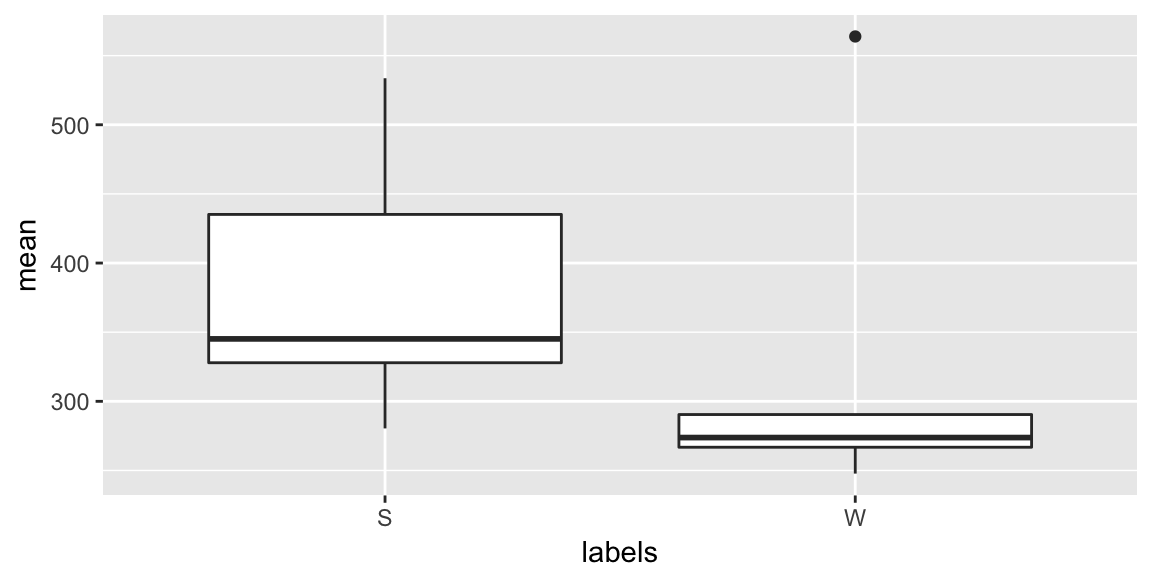
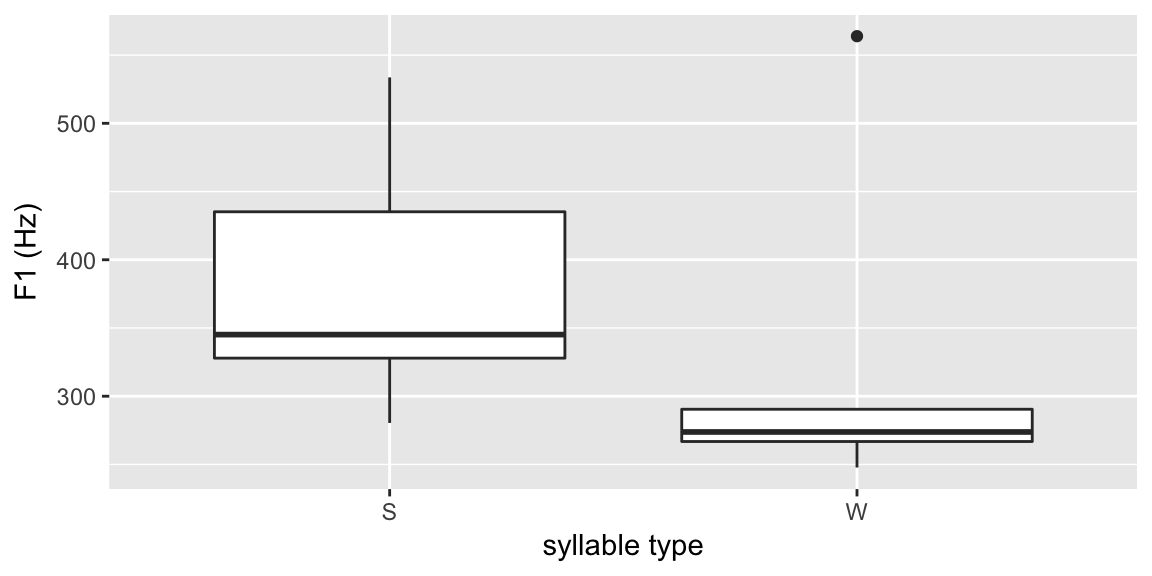
lesson2 prep

Changed region(s): [[0.0, 0.0312, 1.0, 0.9062], [0.4688, 0.9375, 0.625, 1.0], [0.3125, 0.0312, 0.3438, 0.0938]]

diff --git a/_book/toolchain-speechrecorder-maus-emu-sdms.html b/_book/toolchain-speechrecorder-maus-emu-sdms.html
@@ -24,7 +24,7 @@
 
 
 
-<meta name="date" content="2017-10-16">
+<meta name="date" content="2017-10-23">
 
   <meta name="viewport" content="width=device-width, initial-scale=1">
   <meta name="apple-mobile-web-app-capable" content="yes">
@@ -32,7 +32,7 @@
   
   
 <link rel="prev" href="the-query-system.html">
-<link rel="next" href="references.html">
+<link rel="next" href="placeholder.html">
 <script src="libs/jquery-2.2.3/jquery.min.js"></script>
 <link href="libs/gitbook-2.6.7/css/style.css" rel="stylesheet" />
 <link href="libs/gitbook-2.6.7/css/plugin-bookdown.css" rel="stylesheet" />
@@ -102,40 +102,41 @@ code > span.in { color: #60a0b0; font-weight: bold; font-style: italic; } /* Inf
 <li><a href="./">The EMU-SDMS Manual</a></li>
 
 <li class="divider"></li>
-<li class="chapter" data-level="1" data-path="installing-the-emu-sdms.html"><a href="installing-the-emu-sdms.html"><i class="fa fa-check"></i><b>1</b> Installing the EMU-SDMS</a><ul>
-<li class="chapter" data-level="1.1" data-path="installing-the-emu-sdms.html"><a href="installing-the-emu-sdms.html#installing-additional-r-packages-that-are-used-throughout-this-document"><i class="fa fa-check"></i><b>1.1</b> Installing additional R-packages that are used throughout this document</a></li>
-<li class="chapter" data-level="1.2" data-path="installing-the-emu-sdms.html"><a href="installing-the-emu-sdms.html#version-disclaimer"><i class="fa fa-check"></i><b>1.2</b> Version disclaimer</a></li>
-<li class="chapter" data-level="1.3" data-path="installing-the-emu-sdms.html"><a href="installing-the-emu-sdms.html#for-developers-and-people-interested-in-the-source-code"><i class="fa fa-check"></i><b>1.3</b> For developers and people interested in the source code</a></li>
+<li class="chapter" data-level="1" data-path="index.html"><a href="index.html"><i class="fa fa-check"></i><b>1</b> automatically create a bib database for R packages</a></li>
+<li class="chapter" data-level="2" data-path="installing-the-emu-sdms.html"><a href="installing-the-emu-sdms.html"><i class="fa fa-check"></i><b>2</b> Installing the EMU-SDMS</a><ul>
+<li class="chapter" data-level="2.1" data-path="installing-the-emu-sdms.html"><a href="installing-the-emu-sdms.html#installing-additional-r-packages-that-are-used-throughout-this-document"><i class="fa fa-check"></i><b>2.1</b> Installing additional R-packages that are used throughout this document</a></li>
+<li class="chapter" data-level="2.2" data-path="installing-the-emu-sdms.html"><a href="installing-the-emu-sdms.html#version-disclaimer"><i class="fa fa-check"></i><b>2.2</b> Version disclaimer</a></li>
+<li class="chapter" data-level="2.3" data-path="installing-the-emu-sdms.html"><a href="installing-the-emu-sdms.html#for-developers-and-people-interested-in-the-source-code"><i class="fa fa-check"></i><b>2.3</b> For developers and people interested in the source code</a></li>
 </ul></li>
-<li class="chapter" data-level="2" data-path="chap-overview.html"><a href="chap-overview.html"><i class="fa fa-check"></i><b>2</b> An overview of the EMU-SDMS</a><ul>
-<li class="chapter" data-level="2.1" data-path="chap-overview.html"><a href="chap-overview.html#the-evolution-of-the-emu-sdms"><i class="fa fa-check"></i><b>2.1</b> The evolution of the EMU-SDMS</a></li>
-<li class="chapter" data-level="2.2" data-path="chap-overview.html"><a href="chap-overview.html#emu-sdms-system-architecture-and-default-workflow"><i class="fa fa-check"></i><b>2.2</b> EMU-SDMS: System architecture and default workflow</a></li>
-<li class="chapter" data-level="2.3" data-path="chap-overview.html"><a href="chap-overview.html#emu-sdms-is-it-something-for-you"><i class="fa fa-check"></i><b>2.3</b> EMU-SDMS: Is it something for you?</a></li>
+<li class="chapter" data-level="3" data-path="chap-overview.html"><a href="chap-overview.html"><i class="fa fa-check"></i><b>3</b> An overview of the EMU-SDMS [^1]</a><ul>
+<li class="chapter" data-level="3.1" data-path="chap-overview.html"><a href="chap-overview.html#the-evolution-of-the-emu-sdms"><i class="fa fa-check"></i><b>3.1</b> The evolution of the EMU-SDMS</a></li>
+<li class="chapter" data-level="3.2" data-path="chap-overview.html"><a href="chap-overview.html#emu-sdms-system-architecture-and-default-workflow"><i class="fa fa-check"></i><b>3.2</b> EMU-SDMS: System architecture and default workflow</a></li>
+<li class="chapter" data-level="3.3" data-path="chap-overview.html"><a href="chap-overview.html#emu-sdms-is-it-something-for-you"><i class="fa fa-check"></i><b>3.3</b> EMU-SDMS: Is it something for you?</a></li>
 </ul></li>
-<li class="chapter" data-level="3" data-path="chap-tutorial.html"><a href="chap-tutorial.html"><i class="fa fa-check"></i><b>3</b> A tutorial on how to use the EMU-SDMS</a><ul>
-<li class="chapter" data-level="3.1" data-path="chap-tutorial.html"><a href="chap-tutorial.html#converting-the-textgrid-collection"><i class="fa fa-check"></i><b>3.1</b> Converting the TextGrid collection</a></li>
-<li class="chapter" data-level="3.2" data-path="chap-tutorial.html"><a href="chap-tutorial.html#loading-and-inspecting-the-database"><i class="fa fa-check"></i><b>3.2</b> Loading and inspecting the database</a><ul>
-<li class="chapter" data-level="3.2.1" data-path="chap-tutorial.html"><a href="chap-tutorial.html#overview"><i class="fa fa-check"></i><b>3.2.1</b> Overview</a></li>
-<li class="chapter" data-level="3.2.2" data-path="chap-tutorial.html"><a href="chap-tutorial.html#database-annotation-and-visual-inspection"><i class="fa fa-check"></i><b>3.2.2</b> Database annotation and visual inspection</a></li>
+<li class="chapter" data-level="4" data-path="chap-tutorial.html"><a href="chap-tutorial.html"><i class="fa fa-check"></i><b>4</b> A tutorial on how to use the EMU-SDMS [^2]</a><ul>
+<li class="chapter" data-level="4.1" data-path="chap-tutorial.html"><a href="chap-tutorial.html#converting-the-textgrid-collection"><i class="fa fa-check"></i><b>4.1</b> Converting the TextGrid collection</a></li>
+<li class="chapter" data-level="4.2" data-path="chap-tutorial.html"><a href="chap-tutorial.html#loading-and-inspecting-the-database"><i class="fa fa-check"></i><b>4.2</b> Loading and inspecting the database</a><ul>
+<li class="chapter" data-level="4.2.1" data-path="chap-tutorial.html"><a href="chap-tutorial.html#overview"><i class="fa fa-check"></i><b>4.2.1</b> Overview</a></li>
+<li class="chapter" data-level="4.2.2" data-path="chap-tutorial.html"><a href="chap-tutorial.html#database-annotation-and-visual-inspection"><i class="fa fa-check"></i><b>4.2.2</b> Database annotation and visual inspection</a></li>
 </ul></li>
-<li class="chapter" data-level="3.3" data-path="chap-tutorial.html"><a href="chap-tutorial.html#querying-and-autobuilding-the-annotation-structure"><i class="fa fa-check"></i><b>3.3</b> Querying and autobuilding the annotation structure</a><ul>
-<li class="chapter" data-level="3.3.1" data-path="chap-tutorial.html"><a href="chap-tutorial.html#autobuilding"><i class="fa fa-check"></i><b>3.3.1</b> Autobuilding</a></li>
-<li class="chapter" data-level="3.3.2" data-path="chap-tutorial.html"><a href="chap-tutorial.html#querying-the-hierarchical-annotations"><i class="fa fa-check"></i><b>3.3.2</b> Querying the hierarchical annotations</a></li>
+<li class="chapter" data-level="4.3" data-path="chap-tutorial.html"><a href="chap-tutorial.html#querying-and-autobuilding-the-annotation-structure"><i class="fa fa-check"></i><b>4.3</b> Querying and autobuilding the annotation structure</a><ul>
+<li class="chapter" data-level="4.3.1" data-path="chap-tutorial.html"><a href="chap-tutorial.html#autobuilding"><i class="fa fa-check"></i><b>4.3.1</b> Autobuilding</a></li>
+<li class="chapter" data-level="4.3.2" data-path="chap-tutorial.html"><a href="chap-tutorial.html#querying-the-hierarchical-annotations"><i class="fa fa-check"></i><b>4.3.2</b> Querying the hierarchical annotations</a></li>
 </ul></li>
-<li class="chapter" data-level="3.4" data-path="chap-tutorial.html"><a href="chap-tutorial.html#section:tutorial_sigExtrAndExpl"><i class="fa fa-check"></i><b>3.4</b> Signal extraction and exploration</a></li>
-<li class="chapter" data-level="3.5" data-path="chap-tutorial.html"><a href="chap-tutorial.html#vowel-height-as-a-function-of-syllable-types-strong-vs.weak-evaluation-and-statistical-analysis"><i class="fa fa-check"></i><b>3.5</b> Vowel height as a function of syllable types (strong vs. weak): evaluation and statistical analysis</a></li>
-<li class="chapter" data-level="3.6" data-path="chap-tutorial.html"><a href="chap-tutorial.html#conclusion"><i class="fa fa-check"></i><b>3.6</b> Conclusion</a></li>
+<li class="chapter" data-level="4.4" data-path="chap-tutorial.html"><a href="chap-tutorial.html#section:tutorial_sigExtrAndExpl"><i class="fa fa-check"></i><b>4.4</b> Signal extraction and exploration</a></li>
+<li class="chapter" data-level="4.5" data-path="chap-tutorial.html"><a href="chap-tutorial.html#vowel-height-as-a-function-of-syllable-types-strong-vs.weak-evaluation-and-statistical-analysis"><i class="fa fa-check"></i><b>4.5</b> Vowel height as a function of syllable types (strong vs. weak): evaluation and statistical analysis</a></li>
+<li class="chapter" data-level="4.6" data-path="chap-tutorial.html"><a href="chap-tutorial.html#conclusion"><i class="fa fa-check"></i><b>4.6</b> Conclusion</a></li>
 </ul></li>
-<li class="chapter" data-level="4" data-path="the-query-system.html"><a href="the-query-system.html"><i class="fa fa-check"></i><b>4</b> The query system</a></li>
-<li class="chapter" data-level="5" data-path="toolchain-speechrecorder-maus-emu-sdms.html"><a href="toolchain-speechrecorder-maus-emu-sdms.html"><i class="fa fa-check"></i><b>5</b> Toolchain SpeechRecorder — MAUS — EMU-SDMS</a><ul>
-<li class="chapter" data-level="5.1" data-path="toolchain-speechrecorder-maus-emu-sdms.html"><a href="toolchain-speechrecorder-maus-emu-sdms.html#what-do-speechrecorder-and-maus-do"><i class="fa fa-check"></i><b>5.1</b> What do SpeechRecorder and MAUS do?</a></li>
-<li class="chapter" data-level="5.2" data-path="toolchain-speechrecorder-maus-emu-sdms.html"><a href="toolchain-speechrecorder-maus-emu-sdms.html#different-types-of-prompts"><i class="fa fa-check"></i><b>5.2</b> Different types of prompts</a></li>
-<li class="chapter" data-level="5.3" data-path="toolchain-speechrecorder-maus-emu-sdms.html"><a href="toolchain-speechrecorder-maus-emu-sdms.html#combining-the-tools"><i class="fa fa-check"></i><b>5.3</b> Combining the tools</a><ul>
-<li class="chapter" data-level="5.3.1" data-path="toolchain-speechrecorder-maus-emu-sdms.html"><a href="toolchain-speechrecorder-maus-emu-sdms.html#importing-recordings-and-transcriptions-into-emu"><i class="fa fa-check"></i><b>5.3.1</b> Importing recordings and transcriptions into Emu</a></li>
-<li class="chapter" data-level="5.3.2" data-path="toolchain-speechrecorder-maus-emu-sdms.html"><a href="toolchain-speechrecorder-maus-emu-sdms.html#feeding-the-data-into-maus"><i class="fa fa-check"></i><b>5.3.2</b> Feeding the data into MAUS</a></li>
+<li class="chapter" data-level="5" data-path="the-query-system.html"><a href="the-query-system.html"><i class="fa fa-check"></i><b>5</b> The query system</a></li>
+<li class="chapter" data-level="6" data-path="toolchain-speechrecorder-maus-emu-sdms.html"><a href="toolchain-speechrecorder-maus-emu-sdms.html"><i class="fa fa-check"></i><b>6</b> Toolchain SpeechRecorder — MAUS — EMU-SDMS</a><ul>
+<li class="chapter" data-level="6.1" data-path="toolchain-speechrecorder-maus-emu-sdms.html"><a href="toolchain-speechrecorder-maus-emu-sdms.html#what-do-speechrecorder-and-maus-do"><i class="fa fa-check"></i><b>6.1</b> What do SpeechRecorder and MAUS do?</a></li>
+<li class="chapter" data-level="6.2" data-path="toolchain-speechrecorder-maus-emu-sdms.html"><a href="toolchain-speechrecorder-maus-emu-sdms.html#different-types-of-prompts"><i class="fa fa-check"></i><b>6.2</b> Different types of prompts</a></li>
+<li class="chapter" data-level="6.3" data-path="toolchain-speechrecorder-maus-emu-sdms.html"><a href="toolchain-speechrecorder-maus-emu-sdms.html#combining-the-tools"><i class="fa fa-check"></i><b>6.3</b> Combining the tools</a><ul>
+<li class="chapter" data-level="6.3.1" data-path="toolchain-speechrecorder-maus-emu-sdms.html"><a href="toolchain-speechrecorder-maus-emu-sdms.html#importing-recordings-and-transcriptions-into-emu"><i class="fa fa-check"></i><b>6.3.1</b> Importing recordings and transcriptions into Emu</a></li>
+<li class="chapter" data-level="6.3.2" data-path="toolchain-speechrecorder-maus-emu-sdms.html"><a href="toolchain-speechrecorder-maus-emu-sdms.html#feeding-the-data-into-maus"><i class="fa fa-check"></i><b>6.3.2</b> Feeding the data into MAUS</a></li>
 </ul></li>
 </ul></li>
-<li class="chapter" data-level="" data-path="references.html"><a href="references.html"><i class="fa fa-check"></i>References</a></li>
+<li class="chapter" data-level="7" data-path="placeholder.html"><a href="placeholder.html"><i class="fa fa-check"></i><b>7</b> Placeholder</a></li>
 <li class="divider"></li>
 <li><a href="https://github.com/rstudio/bookdown" target="blank">Published with bookdown</a></li>
 
@@ -157,40 +158,40 @@ code > span.in { color: #60a0b0; font-weight: bold; font-style: italic; } /* Inf
 
             <section class="normal" id="section-">
 <div id="toolchain-speechrecorder-maus-emu-sdms" class="section level1">
-<h1><span class="header-section-number">Chapter 5</span> Toolchain SpeechRecorder — MAUS — EMU-SDMS</h1>
-<p>Most phonetic research projects involve this workflow:</p>
+<h1><span class="header-section-number">Chapter 6</span> Toolchain SpeechRecorder — MAUS — EMU-SDMS</h1>
+<p>Most phonetic research projects loosly adhere to the following workflow:</p>
 <ol style="list-style-type: decimal">
 <li>Record speech</li>
-<li>Annotate speech using automatic tools</li>
+<li>Annotate speech using fully automated tools (using ASR / forced alignment methods)</li>
 <li>Check and correct the generated annotations by hand</li>
 <li>Analyze speech (connecting the primary data with annotations and derived signals)</li>
 </ol>
 <p>The EMU Speech Database Management System is focused on steps 3 and 4 of this workflow. For the first two steps, it can very usefully be complemented by two other tools: <a href="http://www.speechrecorder.org/">SpeechRecorder</a> and MAUS (or, more broadly speaking — and more correctly, for that matter — the <a href="https://clarin.phonetik.uni-muenchen.de/BASWebServices">BAS Web Services</a>). This chapter introduces how the tools can be combined — in a systematic way, with as little fuss as possible.</p>
 <div id="what-do-speechrecorder-and-maus-do" class="section level2">
-<h2><span class="header-section-number">5.1</span> What do SpeechRecorder and MAUS do?</h2>
+<h2><span class="header-section-number">6.1</span> What do SpeechRecorder and MAUS do?</h2>
 <p>“SpeechRecorder is a platform independent audio recording software customized to the requirements of speech recordings” (<a href="http://www.speechrecorder.org/" class="uri">http://www.speechrecorder.org/</a>). To this end, SpeechRecorder lets you define prompts that participants will read (or otherwise react to) while you are recording them. At the end of a session, instead of one large recording of the whole session, you have a set of smaller audio recordings, each one representing a single prompt.</p>
-<p>MAUS (Munich AUtomatic Segmentation) processes audio recordings with corresponding orthographic transcriptions, and outputs (1) a corresponding phonetic transcription and (2) a segmentation of the signal into individual speech sounds. As such, MAUS is a part of the <a href="https://clarin.phonetik.uni-muenchen.de/BASWebServices">BAS Web Services</a>.<a href="#fn4" class="footnoteRef" id="fnref4"><sup>4</sup></a></p>
+<p>MAUS (Munich AUtomatic Segmentation) processes audio recordings with corresponding orthographic transcriptions, and outputs (1) a corresponding phonetic transcription and (2) a segmentation of the signal into individual speech sounds. As such, MAUS is a part of the <a href="https://clarin.phonetik.uni-muenchen.de/BASWebServices">BAS Web Services</a>.<a href="#fn1" class="footnoteRef" id="fnref1"><sup>1</sup></a></p>
 </div>
 <div id="different-types-of-prompts" class="section level2">
-<h2><span class="header-section-number">5.2</span> Different types of prompts</h2>
+<h2><span class="header-section-number">6.2</span> Different types of prompts</h2>
 <p>Prompts are very often sentences that participants read out aloud (producing <em>read speech</em>). However, this need not be the case. Prompts may as well be, for example, images that participants have to name or describe, or written questions that participants answer.</p>
 <p>In terms of processing, <em>read speech</em> has the advantage that the researcher already has orthographic transcriptions of all recordings, because the prompts <em>are</em> the transcriptions (this neglects hesitations, misread utterances, etc.).</p>
-<p>For all cases besides read speech, transcriptions have to be prepared. For read speech, when hesitations etc. need to be considered, the existing transcriptions need to be corrected (per token). For the time being, this is out of the scope of this book.<a href="#fn5" class="footnoteRef" id="fnref5"><sup>5</sup></a></p>
+<p>For all cases besides read speech, transcriptions have to be prepared. For read speech, when hesitations etc. need to be considered, the existing transcriptions need to be corrected (per token). For the time being, this is out of the scope of this book.<a href="#fn2" class="footnoteRef" id="fnref2"><sup>2</sup></a></p>
 </div>
 <div id="combining-the-tools" class="section level2">
-<h2><span class="header-section-number">5.3</span> Combining the tools</h2>
+<h2><span class="header-section-number">6.3</span> Combining the tools</h2>
 <p>The order of the processing steps is unchangeable: The files have to be recorded first, then annotated and then analyzed.</p>
 <p>However, there are different ways of passing data around between the tools. For example SpeechRecorder might <em>export</em> files into emuDB format or the EMU-SDMS might <em>import</em> files stored in SpeechRecorder’s format. After all, they are separate tools and can be used individually (although the combination makes great sense).</p>
 <p>Moreover, sometimes a database grows, and some new files are recorded while others have already been annotated or analyzed (which challenges the “unchangeable order of processing steps”).</p>
 <p>We can see now that we have to convert our data between different formats. We want to benefit from all tools but keep the conversion work down to a minimum. In this section, we explain the (currently) best way to do this. We will import SpeechRecorder’s recordings and prompts into the EMU-SDMS and then use emuR to send the data to MAUS and other BAS Web Services.</p>
 <div id="importing-recordings-and-transcriptions-into-emu" class="section level3">
-<h3><span class="header-section-number">5.3.1</span> Importing recordings and transcriptions into Emu</h3>
+<h3><span class="header-section-number">6.3.1</span> Importing recordings and transcriptions into Emu</h3>
 <div id="using-the-import_speechrecorder-function" class="section level4">
-<h4><span class="header-section-number">5.3.1.1</span> Using the import_speechRecorder() function</h4>
+<h4><span class="header-section-number">6.3.1.1</span> Using the import_speechRecorder() function</h4>
 <p>The <code>import_speechRecorder()</code> function is in the making, but unfortunately not finished yet. We therefore have to resort to the second-best way of importing SpeechRecorder’s results into Emu:</p>
 </div>
 <div id="using-intermediary-text-files" class="section level4">
-<h4><span class="header-section-number">5.3.1.2</span> Using intermediary text files</h4>
+<h4><span class="header-section-number">6.3.1.2</span> Using intermediary text files</h4>
 <p>SpeechRecorder, per default, saves one .wav file for each prompt. With additional settings, it will save a .txt file containing the corresponding prompt along with each .wav file. This is great because it is exactly what MAUS needs as its input.</p>
 <p>The following options must be configured <em>before recordings are made</em>. Note that parts of SpeechRecorder’s user interface are in German:</p>
 <ul>
@@ -228,7 +229,7 @@ dbHandle =<span class="st"> </span><span class="kw">load_emuDB</span>(<span clas
 </div>
 </div>
 <div id="feeding-the-data-into-maus" class="section level3">
-<h3><span class="header-section-number">5.3.2</span> Feeding the data into MAUS</h3>
+<h3><span class="header-section-number">6.3.2</span> Feeding the data into MAUS</h3>
 <p>The .wav and .txt files could have been uploaded on the <a href="https://clarin.phonetik.uni-muenchen.de/BASWebServices/#!/services/Pipeline">BAS web site</a>, but we will do it using emuR. This is generally less error-prone and requires less manual work. Moreover, since it is a scripted way of doing things, we can reproduce it reliably.</p>
 <p>To process the data, we make use of several of emuR’s functions called <code>runBASwebservice_...</code>. They will upload the data to WebMAUS and accompanying services and save the results directly inside your existing emuDB (this of course takes some time, depending on the size of your database and the speed of your internet connection).</p>
 <div class="sourceCode"><pre class="sourceCode r"><code class="sourceCode r"><span class="kw">runBASwebservice_g2pForTokenization</span>(<span class="dt">handle =</span> dbHandle,
@@ -255,9 +256,9 @@ dbHandle =<span class="st"> </span><span class="kw">load_emuDB</span>(<span clas
 </div>
 <div class="footnotes">
 <hr />
-<ol start="4">
-<li id="fn4"><p>Strictly speaking, MAUS is used in conjunction with G2P and possibly Chunker to achieve this result. The whole package is often referred to as MAUS, however.<a href="toolchain-speechrecorder-maus-emu-sdms.html#fnref4">↩</a></p></li>
-<li id="fn5"><p>It will be covered, at a later time, in this or a separate chapter.<a href="toolchain-speechrecorder-maus-emu-sdms.html#fnref5">↩</a></p></li>
+<ol start="1">
+<li id="fn1"><p>Strictly speaking, MAUS is used in conjunction with G2P and possibly Chunker to achieve this result. The whole package is often referred to as MAUS, however.<a href="toolchain-speechrecorder-maus-emu-sdms.html#fnref1">↩</a></p></li>
+<li id="fn2"><p>It will be covered, at a later time, in this or a separate chapter.<a href="toolchain-speechrecorder-maus-emu-sdms.html#fnref2">↩</a></p></li>
 </ol>
 </div>
             </section>
@@ -266,7 +267,7 @@ dbHandle =<span class="st"> </span><span class="kw">load_emuDB</span>(<span clas
         </div>
       </div>
 <a href="the-query-system.html" class="navigation navigation-prev " aria-label="Previous page"><i class="fa fa-angle-left"></i></a>
-<a href="references.html" class="navigation navigation-next " aria-label="Next page"><i class="fa fa-angle-right"></i></a>
+<a href="placeholder.html" class="navigation navigation-next " aria-label="Next page"><i class="fa fa-angle-right"></i></a>
     </div>
   </div>
 <script src="libs/gitbook-2.6.7/js/app.min.js"></script>

diff --git a/_book/chap-tutorial.html b/_book/chap-tutorial.html
@@ -24,7 +24,7 @@
 
 
 
-<meta name="date" content="2017-10-16">
+<meta name="date" content="2017-10-23">
 
   <meta name="viewport" content="width=device-width, initial-scale=1">
   <meta name="apple-mobile-web-app-capable" content="yes">
@@ -128,12 +128,12 @@ code > span.in { color: #60a0b0; font-weight: bold; font-style: italic; } /* Inf
 <li class="chapter" data-level="4.6" data-path="chap-tutorial.html"><a href="chap-tutorial.html#conclusion"><i class="fa fa-check"></i><b>4.6</b> Conclusion</a></li>
 </ul></li>
 <li class="chapter" data-level="5" data-path="the-query-system.html"><a href="the-query-system.html"><i class="fa fa-check"></i><b>5</b> The query system</a></li>
-<li class="chapter" data-level="6" data-path="toolchain-speechrecorder-maus-emu-sdms.html"><a href="toolchain-speechrecorder-maus-emu-sdms.html"><i class="fa fa-check"></i><b>6</b> Toolchain SpeechRecorder — MAUS — EMU-SDMS</a><ul>
-<li class="chapter" data-level="6.1" data-path="toolchain-speechrecorder-maus-emu-sdms.html"><a href="toolchain-speechrecorder-maus-emu-sdms.html#what-do-speechrecorder-and-maus-do"><i class="fa fa-check"></i><b>6.1</b> What do SpeechRecorder and MAUS do?</a></li>
-<li class="chapter" data-level="6.2" data-path="toolchain-speechrecorder-maus-emu-sdms.html"><a href="toolchain-speechrecorder-maus-emu-sdms.html#different-types-of-prompts"><i class="fa fa-check"></i><b>6.2</b> Different types of prompts</a></li>
-<li class="chapter" data-level="6.3" data-path="toolchain-speechrecorder-maus-emu-sdms.html"><a href="toolchain-speechrecorder-maus-emu-sdms.html#combining-the-tools"><i class="fa fa-check"></i><b>6.3</b> Combining the tools</a><ul>
-<li class="chapter" data-level="6.3.1" data-path="toolchain-speechrecorder-maus-emu-sdms.html"><a href="toolchain-speechrecorder-maus-emu-sdms.html#importing-recordings-and-transcriptions-into-emu"><i class="fa fa-check"></i><b>6.3.1</b> Importing recordings and transcriptions into Emu</a></li>
-<li class="chapter" data-level="6.3.2" data-path="toolchain-speechrecorder-maus-emu-sdms.html"><a href="toolchain-speechrecorder-maus-emu-sdms.html#feeding-the-data-into-maus"><i class="fa fa-check"></i><b>6.3.2</b> Feeding the data into MAUS</a></li>
+<li class="chapter" data-level="6" data-path="the-speechrecorder-maus-emu-sdms-toolchain.html"><a href="the-speechrecorder-maus-emu-sdms-toolchain.html"><i class="fa fa-check"></i><b>6</b> The SpeechRecorder — MAUS — EMU-SDMS Toolchain</a><ul>
+<li class="chapter" data-level="6.1" data-path="the-speechrecorder-maus-emu-sdms-toolchain.html"><a href="the-speechrecorder-maus-emu-sdms-toolchain.html#what-do-speechrecorder-and-maus-do"><i class="fa fa-check"></i><b>6.1</b> What do SpeechRecorder and MAUS do?</a></li>
+<li class="chapter" data-level="6.2" data-path="the-speechrecorder-maus-emu-sdms-toolchain.html"><a href="the-speechrecorder-maus-emu-sdms-toolchain.html#different-types-of-prompts"><i class="fa fa-check"></i><b>6.2</b> Different types of prompts</a></li>
+<li class="chapter" data-level="6.3" data-path="the-speechrecorder-maus-emu-sdms-toolchain.html"><a href="the-speechrecorder-maus-emu-sdms-toolchain.html#combining-the-tools"><i class="fa fa-check"></i><b>6.3</b> Combining the tools</a><ul>
+<li class="chapter" data-level="6.3.1" data-path="the-speechrecorder-maus-emu-sdms-toolchain.html"><a href="the-speechrecorder-maus-emu-sdms-toolchain.html#importing-recordings-and-transcriptions-into-emu"><i class="fa fa-check"></i><b>6.3.1</b> Importing recordings and transcriptions into Emu</a></li>
+<li class="chapter" data-level="6.3.2" data-path="the-speechrecorder-maus-emu-sdms-toolchain.html"><a href="the-speechrecorder-maus-emu-sdms-toolchain.html#feeding-the-data-into-maus"><i class="fa fa-check"></i><b>6.3.2</b> Feeding the data into MAUS</a></li>
 </ul></li>
 </ul></li>
 <li class="chapter" data-level="7" data-path="placeholder.html"><a href="placeholder.html"><i class="fa fa-check"></i><b>7</b> Placeholder</a></li>
@@ -229,8 +229,8 @@ dbHandle =<span class="st"> </span><span class="kw">load_emuDB</span>(path2direc
 <div class="sourceCode"><pre class="sourceCode r"><code class="sourceCode r"><span class="co"># show summary</span>
 <span class="kw">summary</span>(dbHandle)</code></pre></div>
 <pre><code>## Name:     myFirst 
-## UUID:     e301ddd2-e343-40b2-b700-f66d66c05cda 
-## Directory:    /private/var/folders/ll/pw5k9y6x64q5xqys350rz2ph0000gn/T/RtmpovGxSh/myFirst_emuDB 
+## UUID:     01f8a87a-fe82-412f-94b8-d0d0adb9c875 
+## Directory:    /private/var/folders/ll/pw5k9y6x64q5xqys350rz2ph0000gn/T/RtmpK18Zx5/myFirst_emuDB 
 ## Session count: 1 
 ## Bundle count: 7 
 ## Annotation item count:  664 
@@ -465,19 +465,19 @@ td_vowels$sl_rowIdx</code></pre></div>
 ## [162] 10 10 10 10 10 10 10 10 10 10 10 10 10 10 10 10 10 10 11 11 11 11 11
 ## [185] 11 11 11 11 11 11 11 11 11 11 11 11 11 11 11 11 11 11 12 12 12 12 12
 ## [208] 12 12 12 12 12 12 12 12 12 12 12 12 12</code></pre>
-<div class="sourceCode"><pre class="sourceCode r"><code class="sourceCode r"><span class="co"># show head of td_vowels</span>
-<span class="kw">head</span>(td_vowels, <span class="dt">n =</span> <span class="dv">1</span>)</code></pre></div>
-<pre><code>##    sl_rowIdx labels   start     end          utts
-## 1:         1      V 187.425 256.925 0000:msajc003
+<div class="sourceCode"><pre class="sourceCode r"><code class="sourceCode r"><span class="co"># show head of data belonging to sl_vowels[5,]</span>
+<span class="kw">head</span>(td_vowels[td_vowels$sl_rowIdx ==<span class="st"> </span><span class="dv">5</span>,], <span class="dt">n =</span> <span class="dv">1</span>)</code></pre></div>
+<pre><code>##    sl_rowIdx labels    start      end          utts
+## 1:         5     o: 1183.975 1322.425 0000:msajc012
 ##                                 db_uuid session   bundle start_item_id
-## 1: e301ddd2-e343-40b2-b700-f66d66c05cda    0000 msajc003            87
+## 1: 01f8a87a-fe82-412f-94b8-d0d0adb9c875    0000 msajc012           103
 ##    end_item_id    level start_item_seq_idx end_item_seq_idx    type
-## 1:          87 Phonetic                  2                2 SEGMENT
-##    sample_start sample_end sample_rate times_rel times_orig T1   T2   T3
-## 1:         3749       5138       20000         0      187.5  0 1293 2424
+## 1:         103 Phonetic                 15               15 SEGMENT
+##    sample_start sample_end sample_rate times_rel times_orig  T1  T2   T3
+## 1:        23680      26448       20000         0     1187.5 244 928 1827
 ##      T4
-## 1: 3429</code></pre>
-<p>As can be seen by the call to the <code>class()</code> function, the resulting object is of the type <code>emuRtrackdata</code> and has 220 rows. The <code>td_vowels$sl_rowIdx</code> column of the <code>td_vowels</code> object is vital as it indicates which row of <code>td_vowels</code> belongs to which row in <code>sl_vowels</code>. As the columns <code>T1</code>, <code>T2</code>, <code>T3</code>, <code>T4</code> of the printed output of <code>head(td_vowels, n = 1)</code> suggest, the <code>forest</code> function estimates four formant values. We will only be concerned with the first (column <code>T1</code>) and second (column <code>T2</code>). R Example @ref(rexample:tutorial_dplot) shows a call to <code>ggplot()</code> which produces the plot displayed in Figure @ref(fig:tutorial_dplot). The call to the <code>ggplot()</code> function plots all 12 first formant trajectories (achieved by <code>group = sl_rowIdx</code>). The 12 trajectories are color coded by vowel label (<code>col = labels</code>).</p>
+## 1: 3417</code></pre>
+<p>As can be seen by the call to the <code>class()</code> function, the resulting object is of the type <code>emuRtrackdata</code> and has 220 rows. The <code>td_vowels$sl_rowIdx</code> column of the <code>td_vowels</code> object is vital as it indicates which row of <code>td_vowels</code> belongs to which row in <code>sl_vowels</code>. As the columns <code>T1</code>, <code>T2</code>, <code>T3</code>, <code>T4</code> of the printed output of <code>head(sl_vowels[td_vowels$sl_rowIdx == 5,], n = 1)</code> suggest, the <code>forest</code> function estimates four formant values. We will only be concerned with the first (column <code>T1</code>) and second (column <code>T2</code>). R Example @ref(rexample:tutorial_dplot) shows a call to <code>ggplot()</code> which produces the plot displayed in Figure @ref(fig:tutorial_dplot). The call to the <code>ggplot()</code> function plots all 12 first formant trajectories (achieved by <code>group = sl_rowIdx</code>). The 12 trajectories are color coded by vowel label (<code>col = labels</code>).</p>
 <div class="sourceCode"><pre class="sourceCode r"><code class="sourceCode r"><span class="kw">ggplot</span>(td_vowels) +
 <span class="st">  </span><span class="kw">aes</span>(<span class="dt">x=</span>times_rel, <span class="dt">y=</span>T1, <span class="dt">col=</span>labels, <span class="dt">group=</span>sl_rowIdx) +
 <span class="st">  </span><span class="kw">geom_line</span>() +
@@ -507,14 +507,6 @@ td_vowels$sl_rowIdx</code></pre></div>
 </p>
 </div>
 <p>As can be seen in Figure @ref(fig:tutorial_dplotSylTyp), there seems to be a distinction in F1 trajectory height between vowels in strong syllables and weak syllables. R Example @ref(rexample:tutorial_boxplot) shows the code to produce a boxplot using the <code>dplyr</code> and <code>ggplot2</code> packages to further visually inspect the data (see Figure @ref(fig:tutorial_boxplot) for the plot produced by R Example @ref(rexample:tutorial_boxplot)).</p>
-<pre><code>## 
-## Attaching package: &#39;dplyr&#39;</code></pre>
-<pre><code>## The following objects are masked from &#39;package:stats&#39;:
-## 
-##     filter, lag</code></pre>
-<pre><code>## The following objects are masked from &#39;package:base&#39;:
-## 
-##     intersect, setdiff, setequal, union</code></pre>
 <div class="figure">
 <img src="The-EMU-SDMS-Manual_files/figure-html/tutorial_boxplot-1.png" alt="Boxplot produced using `ggplot2` to visualize the difference in F1 depending on whether the vowel occurs in strong (S) or weak (W) syllables." width="576" />
 <p class="caption">
